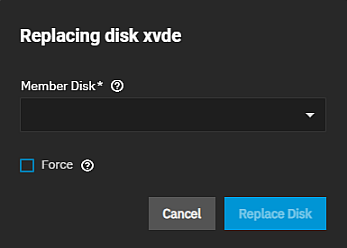
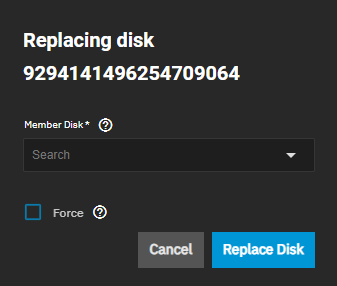
PD-1569 / 25.04 / Pd 1569 re investigate and refresh disk replace procedures scale (#3294)
* Update ReplacingDisks.md

* Create DevicesDiskDegraded.png

* Create DevicesDiskDegradedHotSpare.png

* Update ReplacingDiskDialog.png

* Delete RestoreHotSpare.md

* Update ReplacingDisks.md

* Update ReplacingDisks.md

* Update ReplacingDisks.md

---------

diff --git a/content/SCALE/SCALETutorials/Storage/Disks/ReplacingDisks.md b/content/SCALE/SCALETutorials/Storage/Disks/ReplacingDisks.md
@@ -38,52 +38,11 @@ The **Storage Dashboard** pool widgets also show the status of each of your pool
 
 {{< trueimage src="/images/SCALE/Storage/StoragePoolWidgetsDegradedState.png" alt="Storage Pool Widgets in Degraded State" id="Storage Pool Widgets in Degraded State" >}}
 
-From the main Dashboard, you can click the <i class="fa fa-database" aria-hidden="true" title="Pool Status"></i> on either the **Pool** or **Storage** widget to go to the **Storage Dashboard** screen, or you can click **Storage** on the main navigation menu to open the **Storage Dashboard** and locate the pool in the degraded state.
+From the main Dashboard, you can click the <i class="fa fa-database" aria-hidden="true" title="Pool Status"></i> on either the **Pool** or **Storage** widget or you can click **Storage** on the main navigation menu to open the **Storage Dashboard** screen and locate the pool in the degraded state.
 
 {{< expand "My disk is faulted. Should I replace it?" "v" >}}
 If a disk shows a faulted state, TrueNAS has detected an issue with that disk and you should replace it.
 {{< /expand >}}
-
-To replace a failed disk:
-
-1. Locate the failed drive.
-
-   a. Go to the **Storage Dashboard** and click **Manage Devices** on the **Topology** widget for the degraded pool to open the **Devices** screen for that pool.
-
-   b. Click anywhere on the VDEV to expand it and look for the drive with the Offline status.
-
-2. Take the disk offline.
-
-   {{< trueimage src="/images/SCALE/Storage/DevicesDiskWidgets.png" alt="Devices Disk Widgets" id="Devices Disk Widgets" >}}
-
-   Click **Offline** on the **ZFS Info** widget to take the disk offline. The button toggles to **Online**.
-
-3. Pull the disk from your system and replace it with a disk of at least the same or greater capacity as the failed disk.
-
-   {{< trueimage src="/images/SCALE/Storage/ReplaceDiskAndOnline.png" alt="Replace and Online a Disk" id="Replace and Online a Disk" >}}
-
-   a. Click **Replace** on the **Disk Info** widget on the **Devices** screen for the disk you off-lined.
-
-   b. Select the new drive from the **Member Disk** dropdown list on the **Replacing disk *diskname*** dialog.
-
-   {{< trueimage src="/images/SCALE/Storage/ReplacingDiskDialog.png" alt="Replacing Disk Dialog" id="Replacing Disk Dialog" >}}
-
-4. Add the new disk to the existing VDEV. Click **Replace Disk** to add the new disk to the VDEV and bring it online.
-
-   Disk replacement fails when the selected disk has partitions or data present.
-   To destroy any data on the replacement disk and allow the replacement to continue, select the **Force** option.
-
-   {{< trueimage src="/images/SCALE/Storage/ReplacingDiskStatusDialog.png" alt="Replacing Disk Status" id="Replacing Disk Status" >}}
-
-   When the disk wipe completes, TrueNAS starts replacing the failed disk.
-   TrueNAS resilvers the pool during the replacement process.
-   For pools with large amounts of data, this can take a long time.
-   When the resilver process completes, the pool status returns to **Online** status on the **Devices** screen.
-
-### Taking a Disk Offline
-
-We recommend users off-line a disk before starting the physical disk replacement.
-Off-lining a disk removes the device from the pool and can prevent swap issues.
 
 {{< expand "Can I use a disk that is failing but still active?" "v" >}}
 There are situations where you can leave a disk that has not completely failed online to provide additional redundancy during the replacement procedure.
@@ -93,27 +52,122 @@ We do not recommend leaving failed disks online unless you know the exact condit
 Attempting to replace a heavily degraded disk without off-lining it significantly slows down the replacement process.
 {{< /expand >}}
 
+To replace a disk in a pool without a hot spare available:
+
+1. [Take the disk offline](#taking-a-failed-disk-offline).
+2. [Replace the disk](#replacing-a-failed-disk).
+3. Refresh the screen.
+
+To replace a disk in a pool with a hot spare:
+
+1. [Take the disk offline](#taking-a-failed-disk-offline).
+2. [Detach the failed disk](#detaching-a-failed-disk) to promote the hot spare.
+3. Refresh the screen.
+4. [Recreate the hot spare VDEV](#recreating-the-hot-spare).
+
+## Taking a Failed Disk Offline
+
+We recommend users off-line a disk before starting the physical disk replacement.
+Off-lining a disk removes the device from the pool and can prevent swap issues.
+To offline a disk:
+
+Go to the **Storage Dashboard** and click **Manage Devices** on the **Topology** widget for the degraded pool to open the **Devices** screen for that pool.
+Click <span class="iconify" data-icon="mdi:keyboard-arrow-right"></span> next to the VDEV to expand it, then look for the disk with the **REMOVED** status.
+
+{{< trueimage src="/images/SCALE/Storage/DevicesDiskDegraded.png" alt="Devices Disk Failed" id="Devices Disk Failed" >}}
+
+Click on the failed disk, then click **Offline** in the **ZFS Info** widget to take the disk offline.
+The disk status changes to **OFFLINE**.
+
 {{< expand "The offline failed?" "v" >}}
 If the off-line operation fails with a **Disk offline failed - no valid replicas** message, go to **Storage Dashboard** and click **Scrub** on the **ZFS Health** widget for the pool with the degraded disk. The **Scrub Pool** confirmation dialog opens. Select **Confirm** and then click **Start Scrub**.
 
 {{< trueimage src="/images/SCALE/Storage/StorageZFSHealthScrub.png" alt="Storage ZFS Health Scrub Pool" id="Storage ZFS Health Scrub Pool" >}}
 
-When the scrub operation finishes, return to the **Devices** screen, click on the VDEV and then the disk, and try to off-line it again.
+When the scrub operation finishes, return to the **Devices** screen, expand the VDEV, then click the disk, and try to off-line it again.
 {{< /expand >}}
 
-1. Click on **Manage Devices** to open the **Devices** screen, click anywhere on the VDEV to expand VDEV and show the drives in the VDEV.
+## Replacing a Failed Disk
 
-2. Click **Offline** on the **ZFS Info** widget. A confirmation dialog displays. Click **Confirm** and then **Offline**.
-   The system begins the process to take the disk offline. When complete, the disk displays the status of the failed disk as **Offline**.
-   The button toggles to **Online**.
+If you are replacing the failed disk you took offline and removed, insert the replacement disk now.
+The new disk must have the same or greater capacity as the failed disk.
+If replacing a failed disk with an available disk in the system, proceed to the next step.
 
-{{< trueimage src="/images/SCALE/Storage/ReplaceDiskAndOnline.png" alt="Off-Lining A Disk" id="Off-Lining A Disk" >}}
+Click **Replace** on the **Disk Info** widget on the **Devices** screen for the disk you off-lined.
 
-3. You can physically remove the disk from the system when the disk status is **Offline**.
-   If the replacement disk is not already physically installed in the system, do it now.
+Select the new drive from the **Member Disk** dropdown list on the **Replacing disk** dialog.
 
-Use **[Replace](#replacing-a-failed-disk)** to bring the new disk online in the same VDEV.
+   {{< trueimage src="/images/SCALE/Storage/ReplacingDiskDialog.png" alt="Replacing Disk Dialog" id="Replacing Disk Dialog" >}}
 
-### Restoring the Hot Spare
+Click **Replace Disk** to add the new disk to the VDEV and bring it online.
 
-{{< include file="/static/includes/RestoreHotSpare.md" >}}
+Disk replacement fails when the selected disk has partitions or data present.
+To destroy any data on the replacement disk and allow the replacement to continue, select the **Force** option.
+
+   {{< trueimage src="/images/SCALE/Storage/ReplacingDiskStatusDialog.png" alt="Replacing Disk Status" id="Replacing Disk Status" >}}
+
+When the disk wipe completes, TrueNAS starts replacing the failed disk.
+TrueNAS resilvers the pool during the replacement process.
+For pools with large amounts of data, this can take a long time.
+When the resilver process completes, the pool status returns to **Online** on the **Devices** screen.
+
+## Replacing a Failed Disk with a Hot Spare
+
+A **Hot Spare** vdev sets up drives as reserved to prevent larger pool and data loss scenarios.
+TrueNAS automatically inserts an available hot spare into a **Data** vdev when an active drive fails.
+TrueNAS resilvers the pool after the hot spare is activated.
+
+To replace a disk in a pool with a hot spare:
+
+1. [Take the disk offline](#taking-a-failed-disk-offline).
+2. [Detach the failed disk](#detaching-a-failed-disk) to promote the hot spare.
+3. Refresh the screen.
+4. [Recreate the hot spare VDEV](#recreating-the-hot-spare).
+
+### Detaching a Failed Disk
+
+Go to the **Storage Dashboard** and click **Manage Devices** on the **Topology** widget for the degraded pool to open the **Devices** screen for that pool.
+Click <span class="iconify" data-icon="mdi:keyboard-arrow-right"></span> next to the VDEV to expand it, then look for the disk with the **REMOVED** status.
+
+{{< trueimage src="/images/SCALE/Storage/DevicesDiskDegradedHotSpare.png" alt="Devices Disk Failed - Hot Spare Active" id="Devices Disk Failed - Hot Spare Active" >}}
+
+Click **Detach** on the **ZFS Info** widget on the **Devices** screen for the disk you off-lined.
+
+Select **Confirm**, then click **Detach**.
+TrueNAS detaches the disk from the pool and promotes the hot spare disk to a full member of the pool.
+
+### Recreating the Hot Spare
+
+After promoting the hot spare, recreate the **Spare** vdev and assign a disk to it.
+
+{{< expand "Do I really need to promote the hot spare and then recreate the spare vdev?" "v" >}}
+If you have a hot spare inserted into the pool and then follow the instructions in [Replacing a Failed Disk](#replacing-a-failed-disk), TrueNAS automatically returns the hot spare disk to the existing **Spare** vdev and **ONLINE** status.
+
+However, we do not recommend this method, because it causes two resilver events: one when activating the hot spare and again when replacing the failed disk.
+Resilvering degrades system performance until completed and causes unnecessary strain on the disk.
+
+To avoid unnecessary resilvers, [promote the hot spare](#detaching-a-failed-disk) then recreate the hot spare vdev.
+{{< /expand >}}
+
+If recreating the spare with a replacement in place of the failed disk, insert the replacement disk now.
+The new disk must have the same or greater capacity as the failed disk.
+If recreating the spare with an available disk in the system, proceed to the next step.
+
+Go to the **Storage Dashboard** and click **Manage Devices** on the **Topology** widget for the degraded pool to open the **Devices** screen for that pool.
+
+Click **Add VDEV** to open the **Add Vdevs to Pool** screen.
+
+Click the **Spare (Optional)** row to expand it.
+
+{{< trueimage src="/images/SCALE/Storage/AddVdevToPoolSpareScreen.png" alt="Add Vdev Spare" id="Add Vdev Spare" >}}
+
+Select a disk size equal to or greater than the failed disk or click **Manual Disk Selection** to choose the replacement disk.
+Click **Save And Go To Review**.
+
+{{< trueimage src="/images/SCALE/Storage/AddVdevToPoolReviewScreen.png" alt="Review Screen" id="Review Screen" >}}
+
+Review changes then click **Update Pool**.
+Select **Confirm**, then click **Continue**.
+
+After completing the job, TrueNAS returns to the **Storage Dashboard** screen.
+Review **Spare VDEVs** on the **Topology** widget to confirm the hot spare is added.
